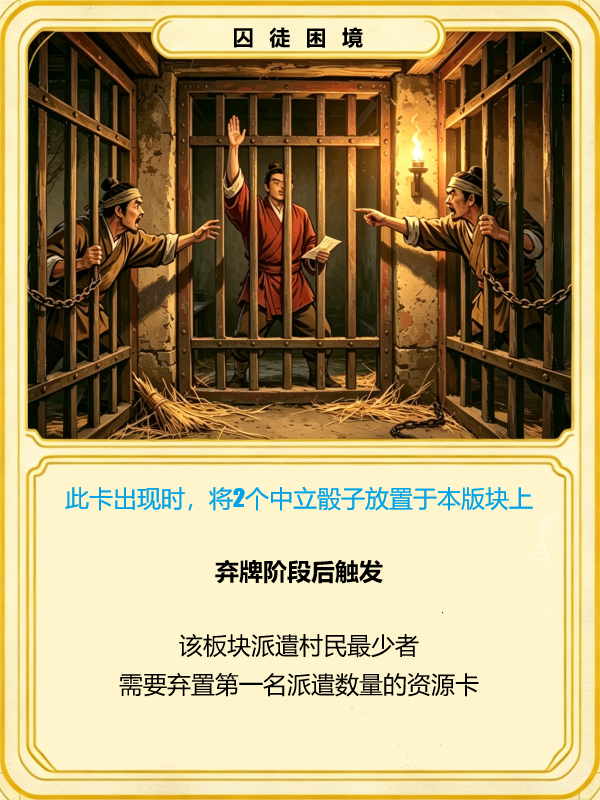
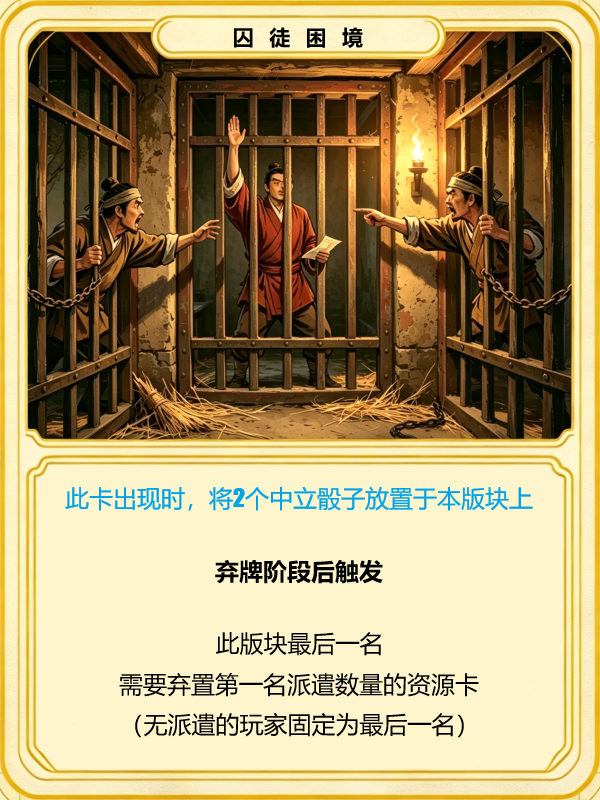
更新囚徒困境效果

Changed region(s): [[0.24, 0.875, 0.78, 0.9375], [0.3, 0.7812, 0.69, 0.8438]]

diff --git a/server/games/lasidao/environmentEffects.js b/server/games/lasidao/environmentEffects.js
@@ -605,21 +605,27 @@ function applyEnvironmentOnSettleSlot(game, ctx) {
       break;
 
     case 'prisonersDilemma': {
+      // 最后一名弃牌：抵消后排名末位（可并列）；未放置者固定为最后一名。
+      // n = 第一名物理骰数。唯一幸存者算第一名，不算最后一名。
       const physical = ctx.physical || {};
+      const remain = ctx.remain || {};
       const top = ranked[0];
       const n = top
         ? Number(top.dice) || physicalDiceOnSlot(physical, top.pid)
         : 0;
       const alive = (ctx.alivePlayers && ctx.alivePlayers(game)) || [];
-      let min = Infinity;
-      for (const p of alive) {
-        const c = physicalDiceOnSlot(physical, p.id);
-        if (c < min) min = c;
-      }
-      if (!alive.length || !Number.isFinite(min)) break;
-      const victims = alive.filter(
-        (p) => physicalDiceOnSlot(physical, p.id) === min
-      );
+      if (!alive.length) break;
+      const lastCount = ranked.length
+        ? Number(ranked[ranked.length - 1].count) || 0
+        : null;
+      const victims = alive.filter((p) => {
+        const dice = physicalDiceOnSlot(physical, p.id);
+        if (dice <= 0) return true; // 没放的固定为最后一名
+        const strength = Number(remain[p.id]) || 0;
+        if (strength <= 0) return true; // 抵消出局
+        if (ranked.length < 2 || lastCount == null) return false;
+        return strength === lastCount;
+      });
       if (!game.pendingPrisonerDiscards) game.pendingPrisonerDiscards = {};
       for (const p of victims) {
         if (n <= 0) continue;
@@ -631,7 +637,7 @@ function applyEnvironmentOnSettleSlot(game, ctx) {
           game,
           n <= 0
             ? `「${env.label}」：第一名骰数为 0，无需弃牌`
-            : `「${env.label}」：${victims.map((p) => p.name).join('、')}（最少 ${min} 骰）各需弃 ${n} 张（个人产出后）`
+            : `「${env.label}」：${victims.map((p) => p.name).join('、')}（最后一名）各需弃 ${n} 张（个人产出后）`
         );
       }
       break;

diff --git a/server/games/lasidao/smoke/basic.js b/server/games/lasidao/smoke/basic.js
@@ -3468,6 +3468,63 @@ console.log('— prisoners dilemma discard uses physical dice count —');
   console.log('✓ prisoners dilemma n equals first-place dice not strength');
 }
 
+console.log('— prisoners dilemma last place not fewest dice —');
+{
+  const { startSettle } = require('../engine');
+  const g = createGameState(room(3));
+  finishInit(g);
+  g.board.resource.environments[6] = {
+    id: 'env_pd_last',
+    kind: 'environment',
+    envType: 'prisonersDilemma',
+    label: '囚徒困境',
+    trigger: 'settle',
+    setup: 'neutral2',
+    number: 6,
+  };
+  g.board.resource.tiles = [
+    {
+      id: 'res_pd_last',
+      kind: 'resource',
+      resource: 'wood',
+      large: 1,
+      small: 1,
+      number: 6,
+      label: '木材',
+    },
+  ];
+  const p0 = g.players[0];
+  const p1 = g.players[1];
+  const p2 = g.players[2];
+  // 第一名 3、第二名 1、未放置 0：最后一名应为 p1 与 p2（旧逻辑仅惩罚最少骰的 p2）
+  g.board.resource.workers = {
+    1: {},
+    2: {},
+    3: {},
+    4: {},
+    5: {},
+    6: { [p0.id]: 3, [p1.id]: 1 },
+  };
+  g.board.resource.boosts = { 1: {}, 2: {}, 3: {}, 4: {}, 5: {}, 6: {} };
+  startSettle(g);
+  assert.strictEqual(
+    Number((g.pendingPrisonerDiscards || {})[p0.id]) || 0,
+    0,
+    '第一名不应弃牌'
+  );
+  assert.strictEqual(
+    Number((g.pendingPrisonerDiscards || {})[p1.id]) || 0,
+    3,
+    '抵消后最后一名应弃第一名骰数'
+  );
+  assert.strictEqual(
+    Number((g.pendingPrisonerDiscards || {})[p2.id]) || 0,
+    3,
+    '未放置者固定为最后一名'
+  );
+  console.log('✓ prisoners dilemma last place includes second and non-placers');
+}
+
 console.log('— event wei qi rescue zhao —');
 {
   const { beginProduce } = require('../engine');

diff --git a/server/games/lasidao/decks.js b/server/games/lasidao/decks.js
@@ -314,7 +314,7 @@ const ENVIRONMENT_CATALOG = [
     trigger: 'settle',
     setup: 'neutral2',
     count: 1,
-    desc: '上场在本格放置 2 枚中立骰。结算抵消后：骰子最少的玩家（可并列，可为 0）各弃 n 张资源卡，n=第一名骰子数；该弃牌在个人产出（含许愿井）后、建造前进行',
+    desc: '上场在本格放置 2 枚中立骰。结算抵消后：最后一名玩家（可并列；未放置者固定为最后一名）各弃 n 张资源卡，n=第一名骰子数；该弃牌在个人产出（含许愿井）后、建造前进行',
   },
   {
     envType: 'barrenHarvest',
